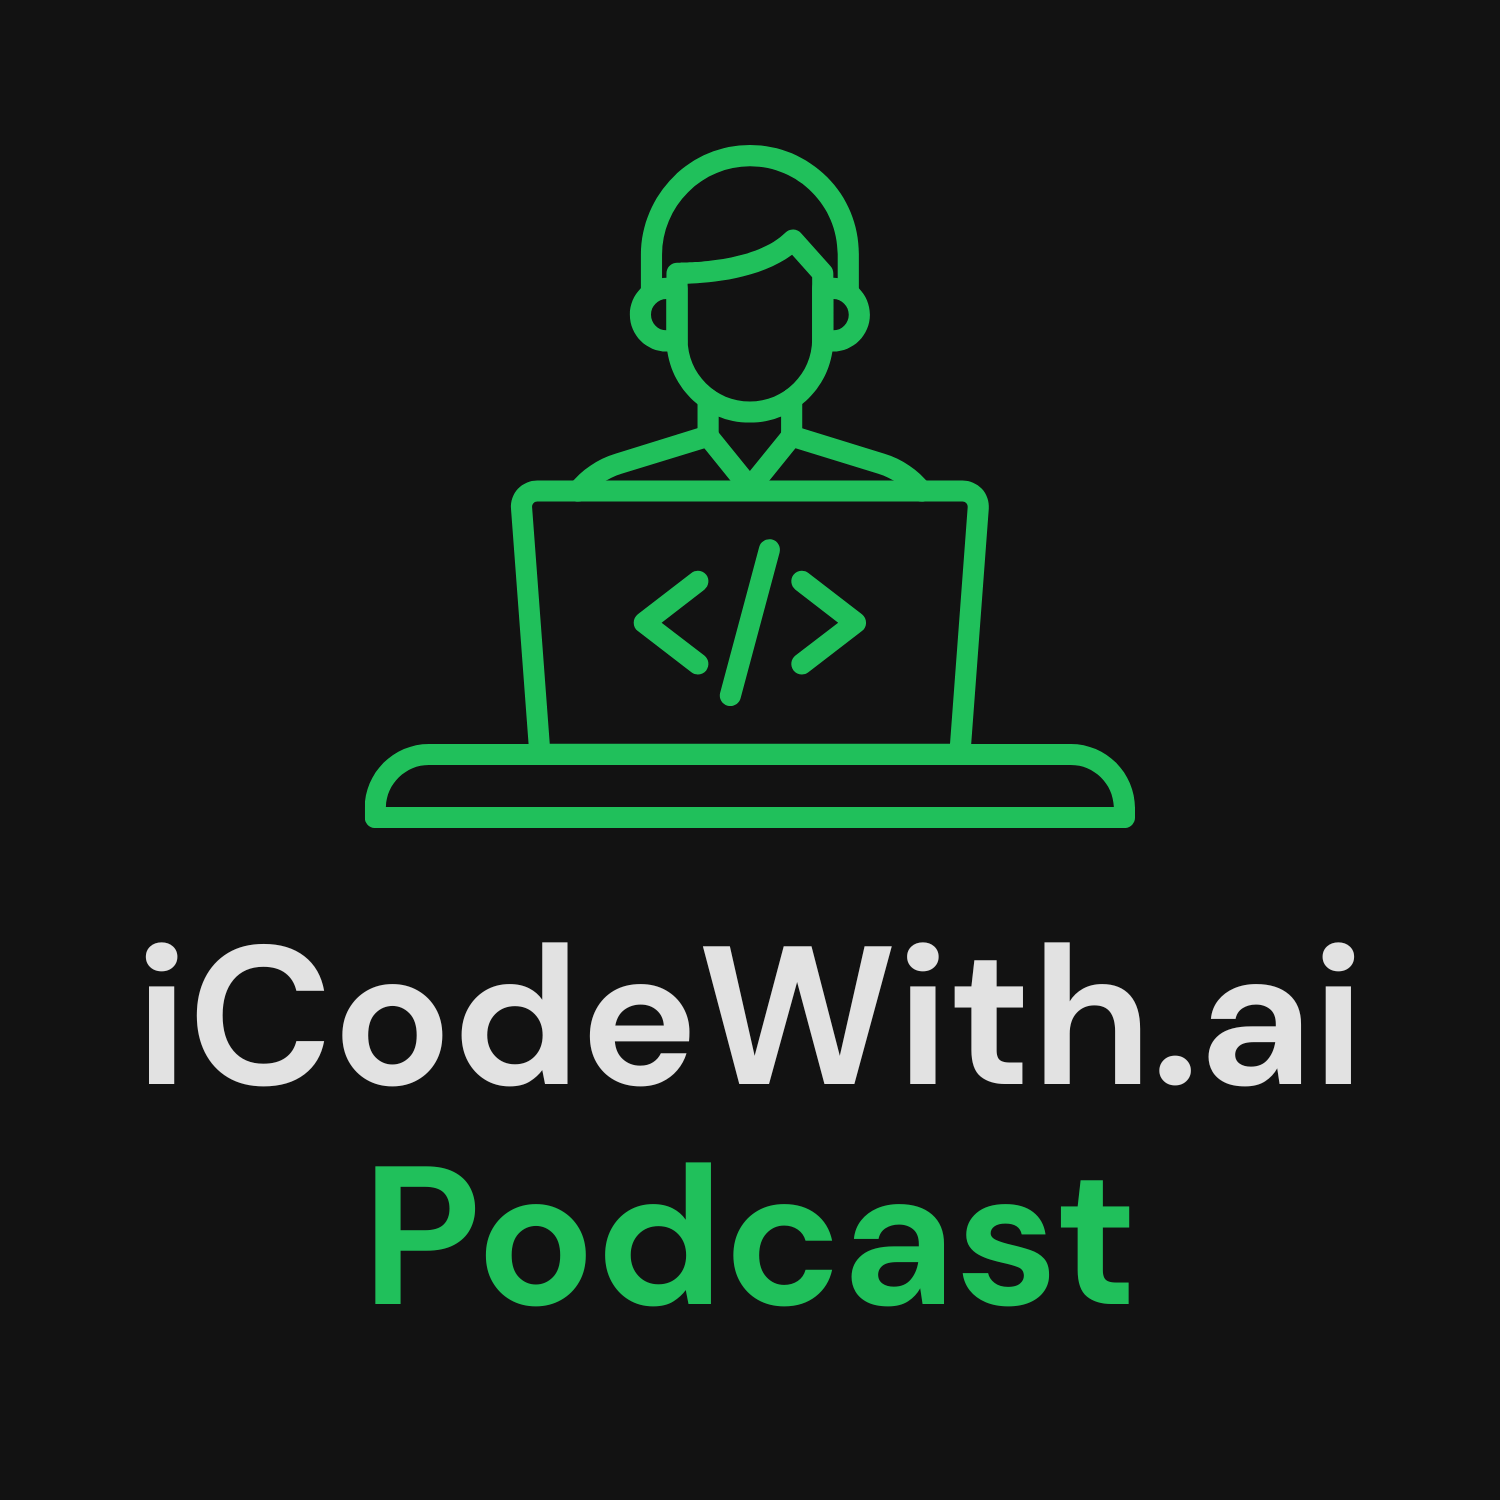
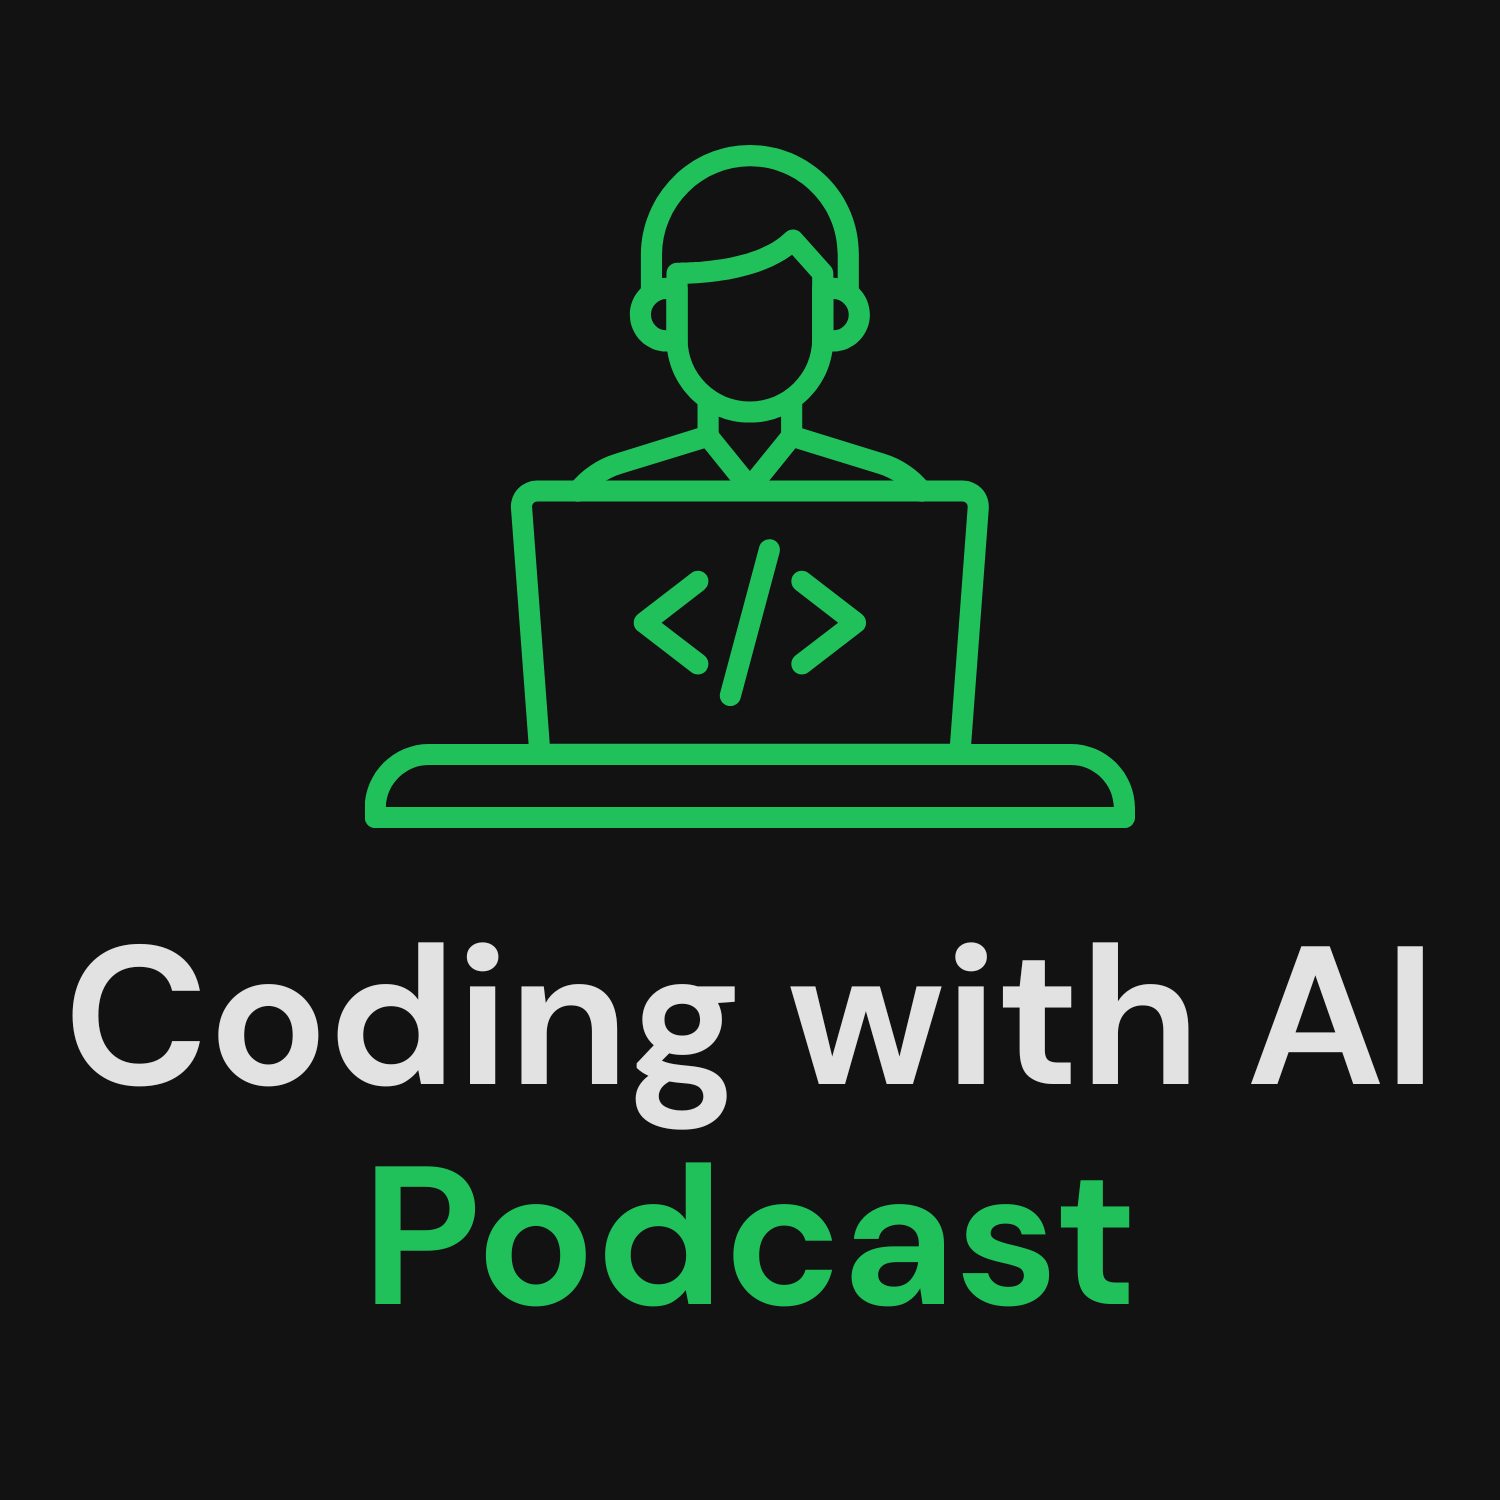
Updates to podcast and meetup name.

Changed region(s): [[0.276, 0.6133, 0.9507, 0.7667], [0.0307, 0.6133, 0.2453, 0.736]]

diff --git a/themes/icodewithai/layouts/podcast/list.html b/themes/icodewithai/layouts/podcast/list.html
@@ -3,7 +3,7 @@
         <!-- Podcast Hero Section -->
         <section class="hero">
             <div class="container">
-                <h1>The <span class="highlight">Podcast</span></h1>
+                <h1>Coding with AI <span class="highlight">Podcast</span></h1>
                 <p class="podcast-tagline">Conversations with humans coding and building apps with AI.</p>
             </div>
         </section>

diff --git a/assets/scss/_components.scss b/assets/scss/_components.scss
@@ -1044,7 +1044,6 @@
   font-weight: $font-weight-normal;
   
   // Single line on desktop
-  white-space: nowrap;
   overflow: hidden;
   text-overflow: ellipsis;
   
